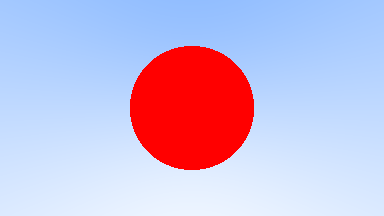
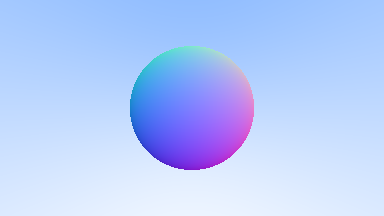
Rendering a sphere colored with normal

Changed region(s): [[0.3125, 0.1944, 0.6875, 0.8056]]

diff --git a/code/Main.cs b/code/Main.cs
@@ -8,25 +8,35 @@ namespace RayTracingInOneWeekend
 {
     class Program
     {
-        static bool hitSphere(in Vector3 center, float radius, in Ray ray)
+        static float hitSphere(in Vector3 center, float radius, in Ray ray)
         {
             Vector3 oc = ray.origin - center;
             float a = Vector3.Dot(ray.direction, ray.direction);
             float halfB = Vector3.Dot(oc, ray.direction);
             float c = Vector3.Dot(oc, oc) - radius * radius;
-            float d = halfB * halfB - a * c;
+            float discriminant = halfB * halfB - a * c;
 
-            return d > 0.0f;
+            if (discriminant < 0)
+                return -1.0f;
+            else
+                return (-halfB - (float)Math.Sqrt(discriminant)) / a;
         }
 
         static Vector3 rayColor(in Ray ray)
         {
-            if (hitSphere(-Vector3.UnitZ, 0.5f, ray))
-                return Vector3.UnitX;
+            Vector3 center = -Vector3.UnitZ;
+            float t = hitSphere(center, 0.5f, ray);
+
+            if (t > 0.0f)
+            {
+                Vector3 N = Vector3.Normalize(ray.at(t) - center);
+                N = 0.5f * (N + Vector3.One);
+                return N;
+            }
 
             Vector3 unitDirection = Vector3.Normalize(ray.direction);
 
-            float t = 0.5f * unitDirection.Y + 0.5f;
+            t = 0.5f * unitDirection.Y + 0.5f;
             Vector3 white = new Vector3(1.0f, 1.0f, 1.0f);
             Vector3 blue = new Vector3(0.5f, 0.7f, 1.0f);
 
